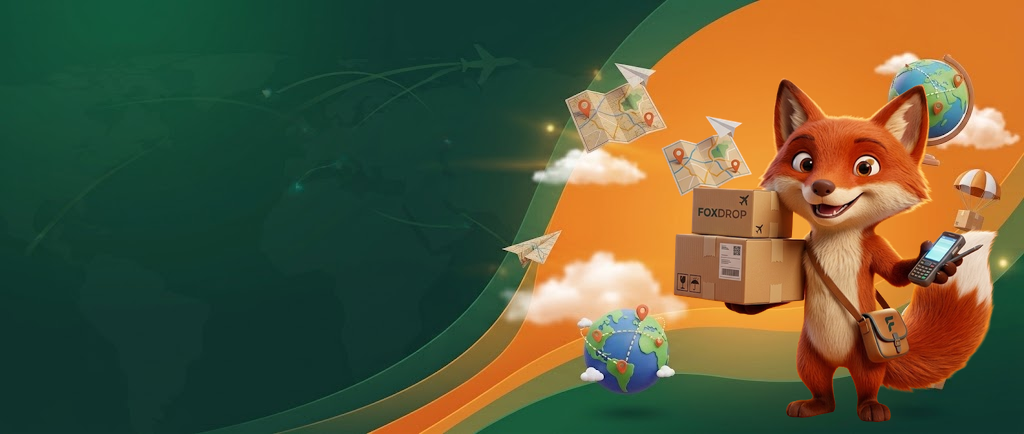
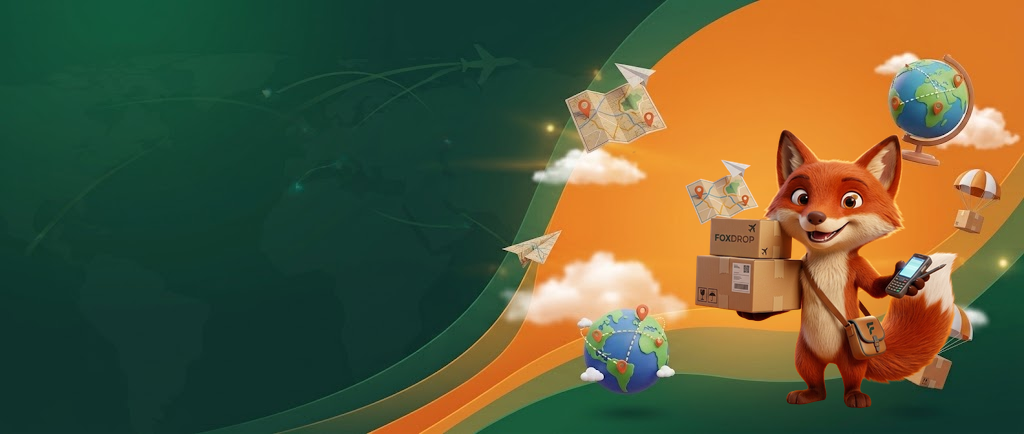
feat: scale down fox mascot to show 100% full body including feet and ears with ample breathing room

Changed region(s): [[0.625, 0.1797, 0.9688, 0.9885]]

diff --git a/src/app/tienda/page.tsx b/src/app/tienda/page.tsx
@@ -1953,16 +1953,16 @@ export default function TiendaFoxDrop() {
 
               return (
                 <div>
-                  <div className="relative rounded-2xl overflow-hidden shadow-xl border border-emerald-950/40 bg-[#0E3D35] aspect-[1024/434] max-h-[380px] w-full flex items-stretch">
-                    {/* FONDO LIMPIO CON ZORRITO MÁS PEQUEÑO Y CERO TEXTO DE FONDO */}
+                  <div className="relative rounded-2xl overflow-hidden shadow-xl border border-emerald-950/40 bg-[#0E3D35] aspect-[1024/434] w-full flex items-stretch">
+                    {/* FONDO LIMPIO CON ZORRITO MÁS PEQUEÑO Y 100% COMPLETO */}
                     <img 
                       src={isDefaultSlide ? '/hero-clean-composite.png' : (currentSlide.image_url || '/hero-clean-composite.png')} 
                       alt="FoxDrop Hero Banner" 
-                      className="absolute inset-0 w-full h-full object-cover object-center pointer-events-none select-none"
+                      className="absolute inset-0 w-full h-full object-fill pointer-events-none select-none"
                     />
 
                     {/* CONTENIDO TIPOGRÁFICO VIVO EN CÓDIGO */}
-                    <div className="relative z-10 w-[45%] lg:w-[44%] p-6 lg:p-9 xl:p-11 flex flex-col justify-between pointer-events-none">
+                    <div className="relative z-10 w-[46%] lg:w-[45%] p-6 lg:p-9 xl:p-11 flex flex-col justify-between pointer-events-none">
                       <div className="space-y-2 lg:space-y-3 max-w-[380px]">
                         <span className="inline-block text-xs lg:text-[13px] font-black tracking-widest text-[#E3B888] uppercase drop-shadow-xs">
                           {currentSlide.subtitle || 'TU ATAJO AL MUNDO'}
